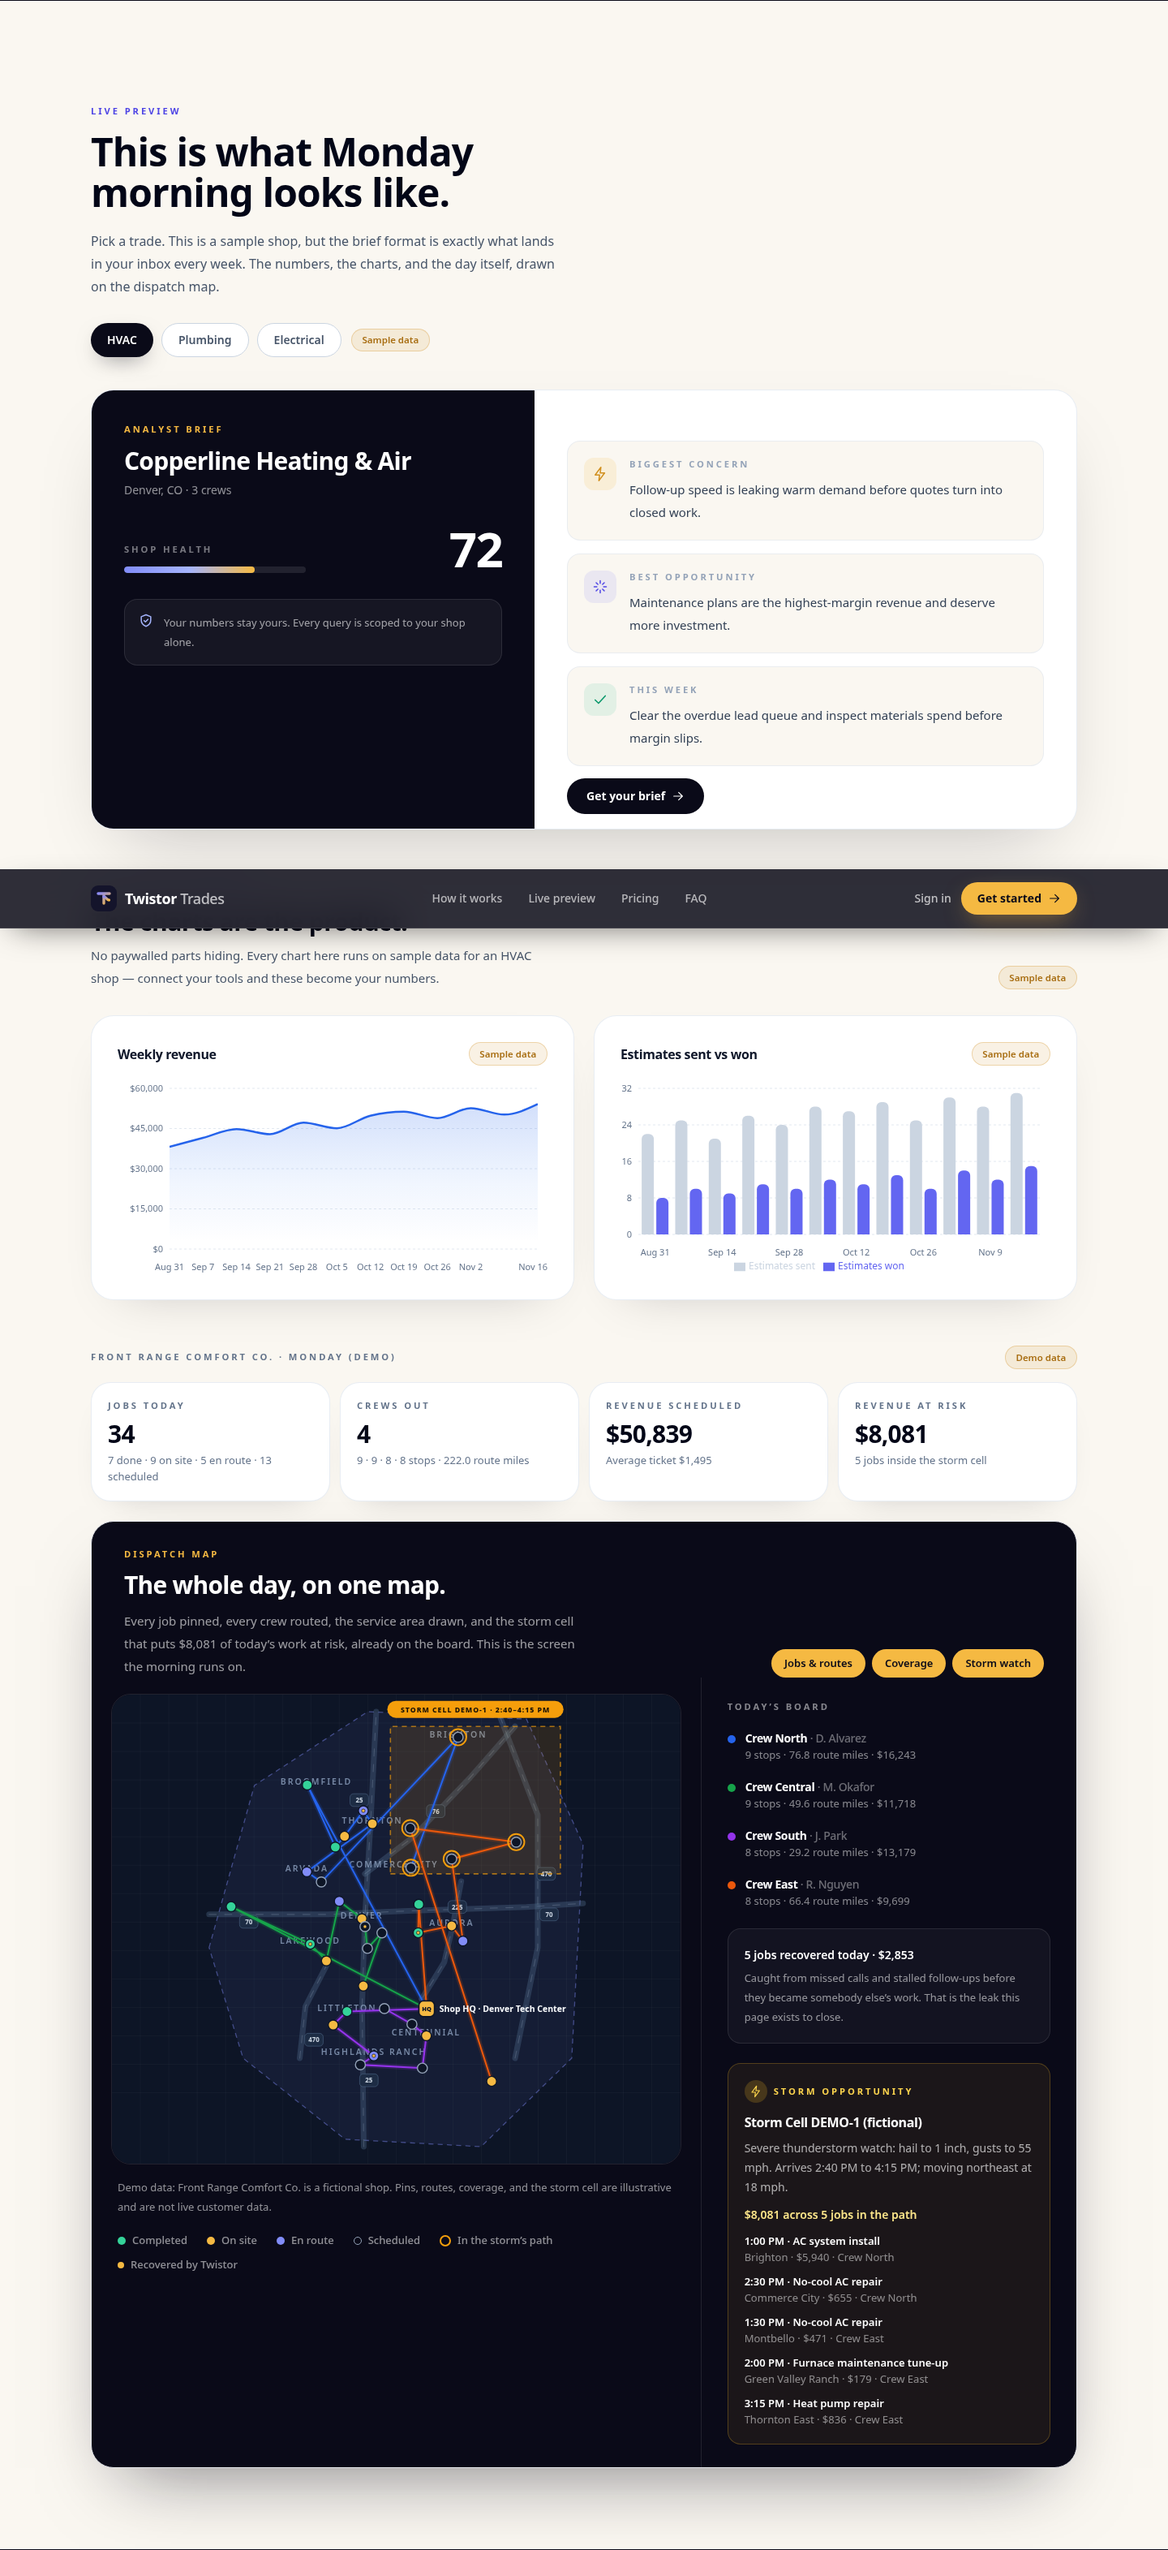
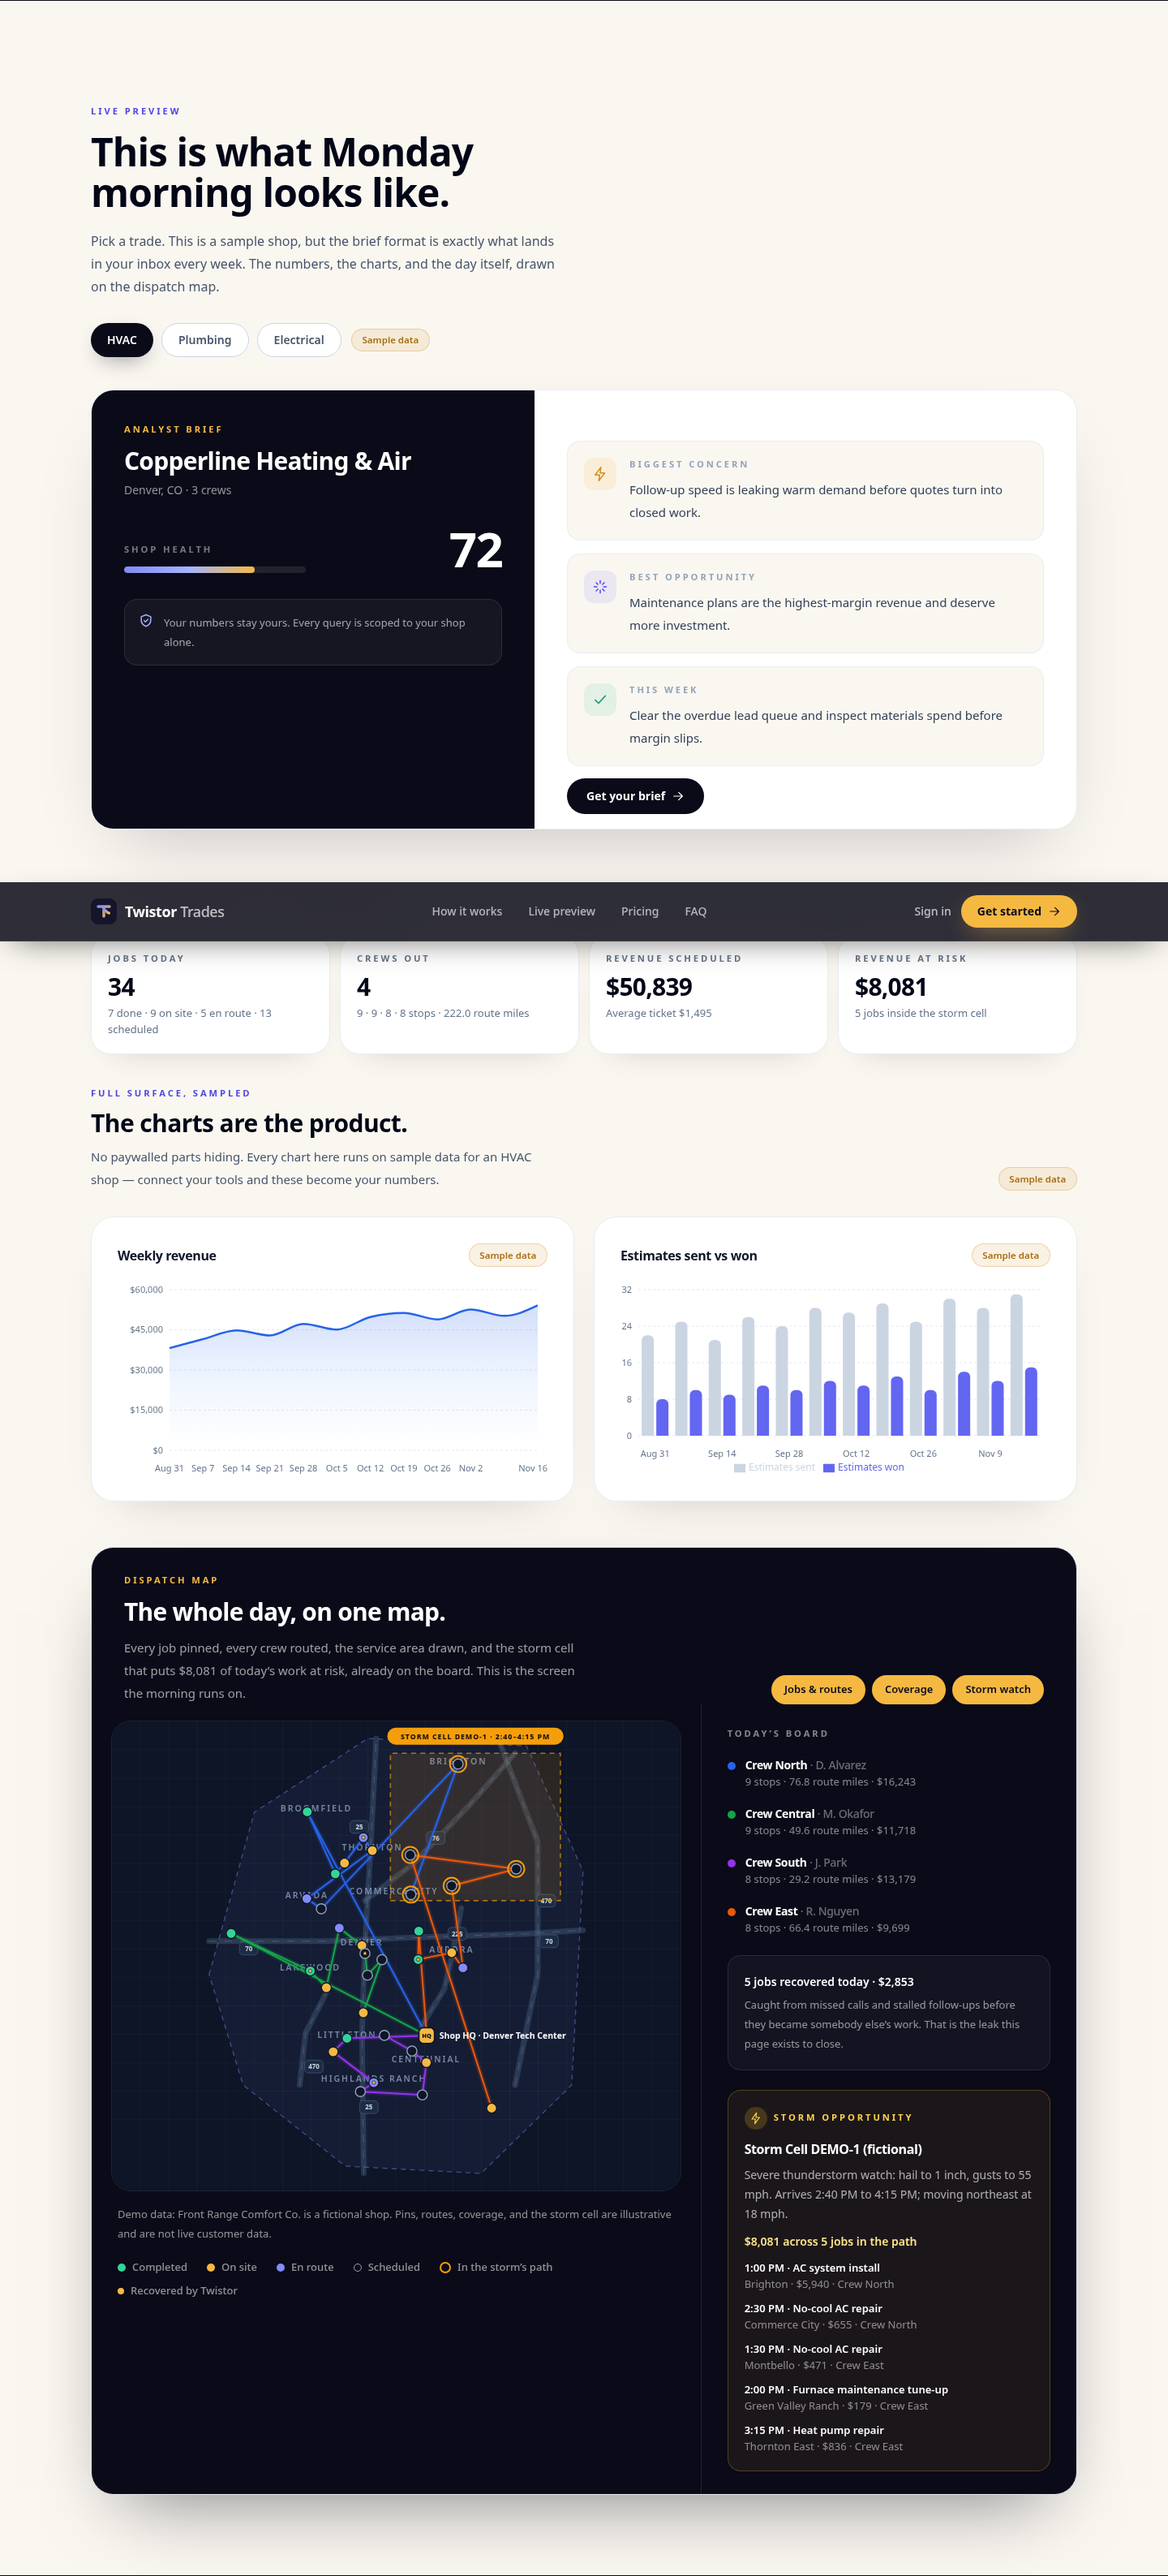
TW-1149: move KPI strip above the charts (Rosa N1, founder ordering)
The KPI strip (shop header row + four tiles) moves out of DispatchMap
into a new DemoKpiStrip component, rendered in LivePreview between the
analyst brief and SampleCharts. Data section now reads: KPI strip,
charts, dispatch map as hero, pricing. Markup, classes, and figures
unchanged; the strip reads the demo data layer as given. KPI test now
renders DemoKpiStrip; 61/61 pass in marketing + pages scope. After
data screenshots (desktop + mobile) refreshed; GATE-AUDIT addendum
records the move.

diff --git a/frontend/src/components/marketing/DispatchMap.jsx b/frontend/src/components/marketing/DispatchMap.jsx
@@ -10,11 +10,10 @@ import demoData from './demo-map-data.json'
  *
  * Data: Maya's demo data layer (twistor-lab/projects/twistor-trades/
  * DEMO-MAP-DATA.json, copied verbatim to demo-map-data.json beside this
- * file). One fictional shop, Front Range Comfort Co. Every KPI, pin,
+ * file). One fictional shop, Front Range Comfort Co. Every pin,
  * route, and dollar figure on this block is read from that file as
- * given; nothing is recomputed client side beyond formatting and the
- * route-mile total the schema note defines. The labeling line under the
- * map is meta.labelingLine, verbatim.
+ * given; nothing is recomputed client side beyond formatting. The
+ * labeling line under the map is meta.labelingLine, verbatim.
  *
  * Rendering: self-contained SVG on purpose. The preview snapshot ships
  * as a single file with no network, so the map cannot depend on tile
@@ -115,10 +114,11 @@ function LayerToggle({ label, pressed, onToggle }) {
 }
 
 /**
- * DispatchMap: the demo map block for the marketing live preview. KPI
- * strip on top (read from the data layer), then the map panel: coverage,
- * routes, job pins by status, at-risk pins flagged, storm overlay with
- * its callout, and the same day summarized as text beside the map.
+ * DispatchMap: the demo map panel for the marketing live preview:
+ * coverage, routes, job pins by status, at-risk pins flagged, storm
+ * overlay with its callout, and the same day summarized as text beside
+ * the map. The demo KPI strip (DemoKpiStrip) renders above the charts,
+ * ahead of this block, per the founder's ordering (TW-1149, Rosa N1).
  */
 export default function DispatchMap() {
   const [layers, setLayers] = useState({ jobs: true, coverage: true, storm: true })
@@ -154,52 +154,12 @@ export default function DispatchMap() {
       stormChipAt: [sb.cx - 124, Math.max(6, sb.top - 36)],
       hq: project(meta.shop.hq.coordinates),
       atRiskJobs: jobs.filter((j) => j.atRisk),
-      routeMilesTotal: routes.reduce((n, r) => n + r.routeMiles, 0),
     }
   }, [])
 
-  const kpiTiles = [
-    {
-      label: 'Jobs today',
-      value: String(kpis.jobsToday),
-      note: `${kpis.jobsCompleted} done · ${kpis.jobsOnSite} on site · ${kpis.jobsEnRoute} en route · ${kpis.jobsScheduled} scheduled`,
-    },
-    {
-      label: 'Crews out',
-      value: String(kpis.crewsOut),
-      note: `${model.routes.map((r) => r.stops).join(' · ')} stops · ${model.routeMilesTotal.toFixed(1)} route miles`,
-    },
-    {
-      label: 'Revenue scheduled',
-      value: money(kpis.revenueScheduledUsd),
-      note: `Average ticket ${money(Math.round(kpis.averageTicketUsd))}`,
-    },
-    {
-      label: 'Revenue at risk',
-      value: money(kpis.revenueAtRiskUsd),
-      note: `${kpis.jobsAtRisk} jobs inside the storm cell`,
-    },
-  ]
-
   return (
     <div className="mt-14">
-      <div className="flex flex-wrap items-center justify-between gap-3">
-        <p className="tt-kicker text-slate-500">
-          {meta.shop.name} · {meta.day}
-        </p>
-        <span className="tt-sample-badge on-light">Demo data</span>
-      </div>
-      <dl className="mt-4 grid grid-cols-2 gap-3 lg:grid-cols-4" aria-label="Demo shop key numbers from the demo data layer">
-        {kpiTiles.map((kpi) => (
-          <div key={kpi.label} className="rounded-3xl border border-slate-200/80 bg-white p-5 shadow-[0_18px_44px_-30px_rgba(10,10,24,0.25)]">
-            <dt className="tt-kicker text-slate-500">{kpi.label}</dt>
-            <dd className="mt-2 text-3xl font-bold tracking-tight text-slate-950">{kpi.value}</dd>
-            <dd className="mt-1 text-[13px] leading-5 text-slate-500">{kpi.note}</dd>
-          </div>
-        ))}
-      </dl>
-
-      <div className="mt-6 overflow-hidden rounded-[1.75rem] border border-sofrito-800 bg-sofrito-950 text-white shadow-[0_40px_90px_-40px_rgba(10,10,24,0.55)]">
+      <div className="overflow-hidden rounded-[1.75rem] border border-sofrito-800 bg-sofrito-950 text-white shadow-[0_40px_90px_-40px_rgba(10,10,24,0.55)]">
         <div className="flex flex-wrap items-end justify-between gap-5 px-7 pt-8 sm:px-10">
           <div className="max-w-xl">
             <div className="tt-kicker text-gold-400">Dispatch map</div>

diff --git a/frontend/src/components/marketing/DemoKpiStrip.jsx b/frontend/src/components/marketing/DemoKpiStrip.jsx
@@ -1,0 +1,67 @@
+import demoData from './demo-map-data.json'
+
+/* TW-1149: the demo KPI strip for the marketing live preview.
+ * Founder ordering (2026-11-16, Rosa gate note N1): the KPI strip
+ * renders above the charts in the data section, then the dispatch map
+ * as the hero. The strip was originally the top of the DispatchMap
+ * block; it moved here so the page can order it ahead of the charts.
+ *
+ * Data: Maya's demo data layer (demo-map-data.json beside this file,
+ * copied verbatim). Every figure is read from that file as given;
+ * nothing is recomputed client side beyond formatting and the
+ * route-mile total the schema note defines.
+ */
+
+const { meta, kpis, geojson } = demoData
+
+const money = (n) => `$${n.toLocaleString('en-US')}`
+
+export default function DemoKpiStrip() {
+  const routes = geojson.features
+    .filter((f) => f.properties.layer === 'route')
+    .map((f) => f.properties)
+  const routeMilesTotal = routes.reduce((n, r) => n + r.routeMiles, 0)
+
+  const kpiTiles = [
+    {
+      label: 'Jobs today',
+      value: String(kpis.jobsToday),
+      note: `${kpis.jobsCompleted} done · ${kpis.jobsOnSite} on site · ${kpis.jobsEnRoute} en route · ${kpis.jobsScheduled} scheduled`,
+    },
+    {
+      label: 'Crews out',
+      value: String(kpis.crewsOut),
+      note: `${routes.map((r) => r.stops).join(' · ')} stops · ${routeMilesTotal.toFixed(1)} route miles`,
+    },
+    {
+      label: 'Revenue scheduled',
+      value: money(kpis.revenueScheduledUsd),
+      note: `Average ticket ${money(Math.round(kpis.averageTicketUsd))}`,
+    },
+    {
+      label: 'Revenue at risk',
+      value: money(kpis.revenueAtRiskUsd),
+      note: `${kpis.jobsAtRisk} jobs inside the storm cell`,
+    },
+  ]
+
+  return (
+    <div className="mt-14">
+      <div className="flex flex-wrap items-center justify-between gap-3">
+        <p className="tt-kicker text-slate-500">
+          {meta.shop.name} · {meta.day}
+        </p>
+        <span className="tt-sample-badge on-light">Demo data</span>
+      </div>
+      <dl className="mt-4 grid grid-cols-2 gap-3 lg:grid-cols-4" aria-label="Demo shop key numbers from the demo data layer">
+        {kpiTiles.map((kpi) => (
+          <div key={kpi.label} className="rounded-3xl border border-slate-200/80 bg-white p-5 shadow-[0_18px_44px_-30px_rgba(10,10,24,0.25)]">
+            <dt className="tt-kicker text-slate-500">{kpi.label}</dt>
+            <dd className="mt-2 text-3xl font-bold tracking-tight text-slate-950">{kpi.value}</dd>
+            <dd className="mt-1 text-[13px] leading-5 text-slate-500">{kpi.note}</dd>
+          </div>
+        ))}
+      </dl>
+    </div>
+  )
+}

diff --git a/frontend/src/pages/MarketingHome.jsx b/frontend/src/pages/MarketingHome.jsx
@@ -3,6 +3,7 @@ import { Link, useSearchParams } from 'react-router-dom'
 import { useAuth } from '@clerk/clerk-react'
 import { Ambient, DepthStage, DriftImage, Parallax, Reveal, ScrollScale } from '../components/motion'
 import SampleCharts from '../components/marketing/SampleCharts'
+import DemoKpiStrip from '../components/marketing/DemoKpiStrip'
 import DispatchMap from '../components/marketing/DispatchMap'
 import demoMapData from '../components/marketing/demo-map-data.json'
 
@@ -553,6 +554,10 @@ function LivePreview({ onCta, ctaUrl }) {
             </div>
           </div>
         </ScrollScale>
+
+        <Reveal y={28}>
+          <DemoKpiStrip />
+        </Reveal>
 
         <Reveal y={28}>
           <SampleCharts tradeKey={tradeKey} tradeLabel={trade.label} />

diff --git a/frontend/src/components/marketing/DispatchMap.test.jsx b/frontend/src/components/marketing/DispatchMap.test.jsx
@@ -1,8 +1,9 @@
 import { render, screen, fireEvent } from '@testing-library/react'
 import DispatchMap from './DispatchMap'
+import DemoKpiStrip from './DemoKpiStrip'
 
 test('KPI strip reads the demo data layer as given', () => {
-  render(<DispatchMap />)
+  render(<DemoKpiStrip />)
   expect(screen.getByText(/Front Range Comfort Co\. · Monday/)).toBeInTheDocument()
   expect(screen.getByText('34')).toBeInTheDocument()
   expect(screen.getByText('$50,839')).toBeInTheDocument()

diff --git a/docs/evidence/tw-1149/GATE-AUDIT.md b/docs/evidence/tw-1149/GATE-AUDIT.md
@@ -52,3 +52,21 @@ the new code, and how each item was handled:
 - Tests: 14 passed in the marketing and pages scope, including 5 new
   DispatchMap tests (KPI values read as given, 34 pins, verbatim
   labeling line, crew board, storm callout, toggle behavior).
+
+## Addendum: Rosa N1 fix (founder decision, 2026-11-16)
+
+Rosa approved with note N1: the KPI strip crowned the map block instead
+of sitting above the charts as the ticket ordered. The founder chose
+his original ordering. The strip (shop header row plus the four-tile
+dl) moved out of DispatchMap into a new DemoKpiStrip component and now
+renders between the analyst brief and SampleCharts in LivePreview, so
+the data section reads: KPI strip, charts, dispatch map as hero,
+pricing. Markup, classes, and figures are unchanged; the strip reads
+the same demo data layer as given (its Crews out note derives stops
+and route miles from the geojson route features, the same source the
+map model used). No new copy, no new styling, so no new Impeccable or
+unslop surface; the strip's tiles were already covered by the scan
+above. Tests: 61 passed in the marketing and pages scope (Rosa's
+broader run scope), with the KPI test now rendering DemoKpiStrip.
+Evidence refreshed: after-data-desktop.png and after-data-mobile.png
+show the new order; the before set is untouched.
